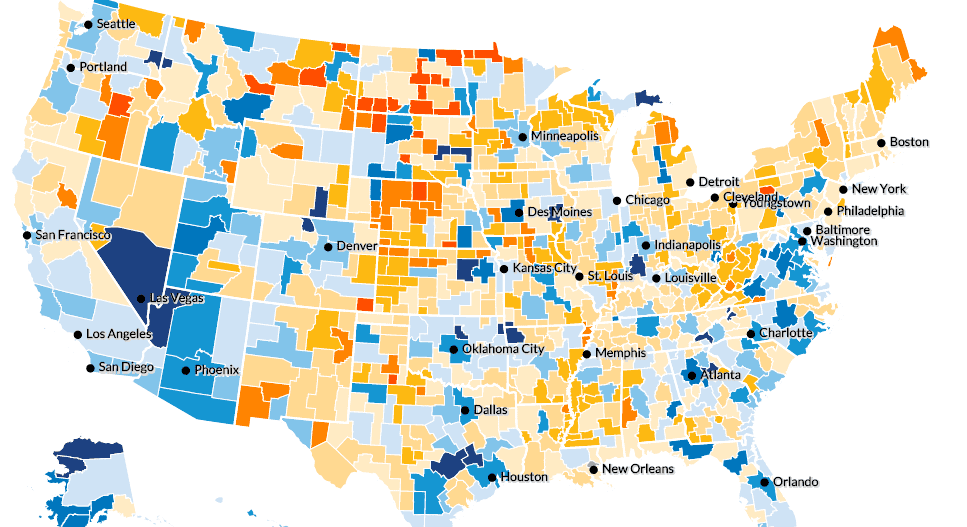
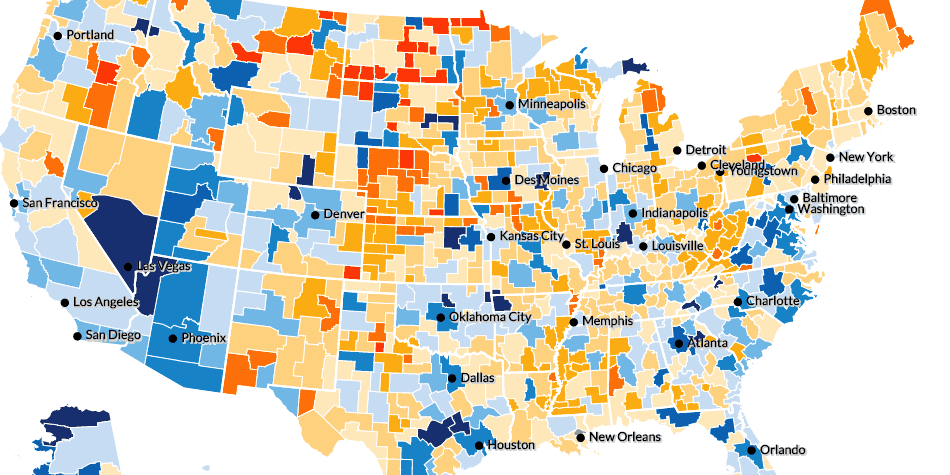
resize images

diff --git a/components/ItemList.tsx b/components/ItemList.tsx
@@ -22,10 +22,9 @@ function Item(props: ItemProps): JSX.Element {
           <Image
             priority
             width={600}
-            height={267}
+            height={300}
             alt={props.title}
             src={`/assets/images/${props.image}`}
-            objectFit="cover"
           />
         </ImageWrapper>
       </a>
